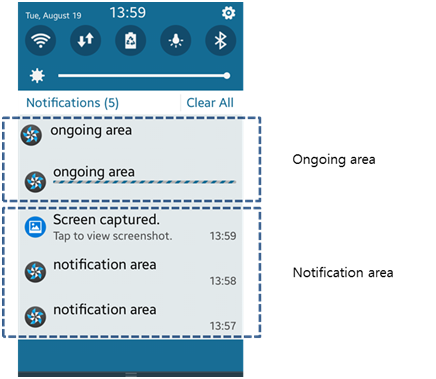
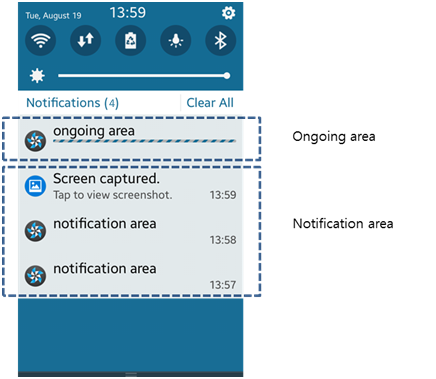
[guide][notification] Remove descriptions for ongoing type notifications.

diff --git a/org.tizen.guides/html/native/app/notification_n.htm b/org.tizen.guides/html/native/app/notification_n.htm
@@ -81,8 +81,6 @@
 <p>Layout for a multiple event notification.</p></li>
 <li><span style="font-family: Courier New,Courier,monospace">NOTIFICATION_LY_NOTI_THUMBNAIL</span> 
 <p>Layout for a notification displaying images.</p></li>
-<li><span style="font-family: Courier New,Courier,monospace">NOTIFICATION_LY_ONGOING_EVENT</span> 
-<p>Layout for an ongoing notification displaying a text message.</p></li>
 <li><span style="font-family: Courier New,Courier,monospace">NOTIFICATION_LY_ONGOING_PROGRESS</span> 
 <p>Layout for an ongoing notification displaying progress.</p></li></ul>
 
